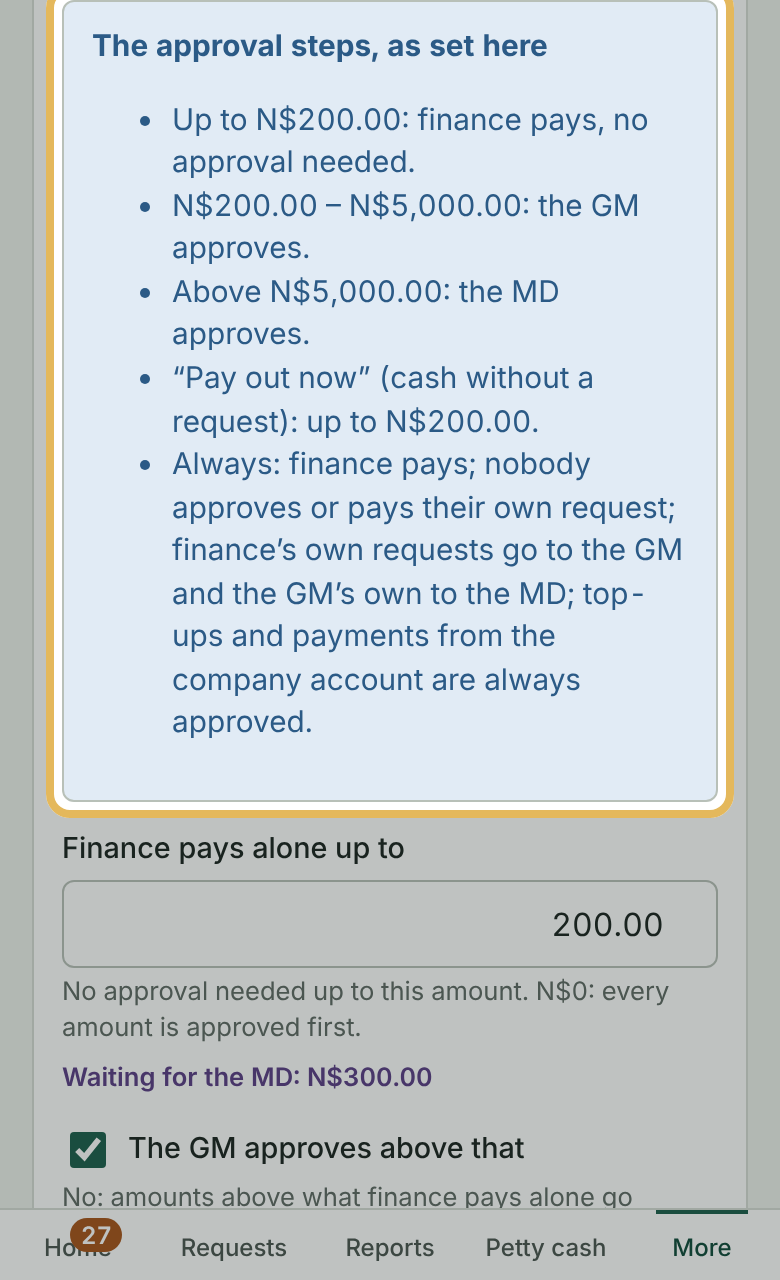
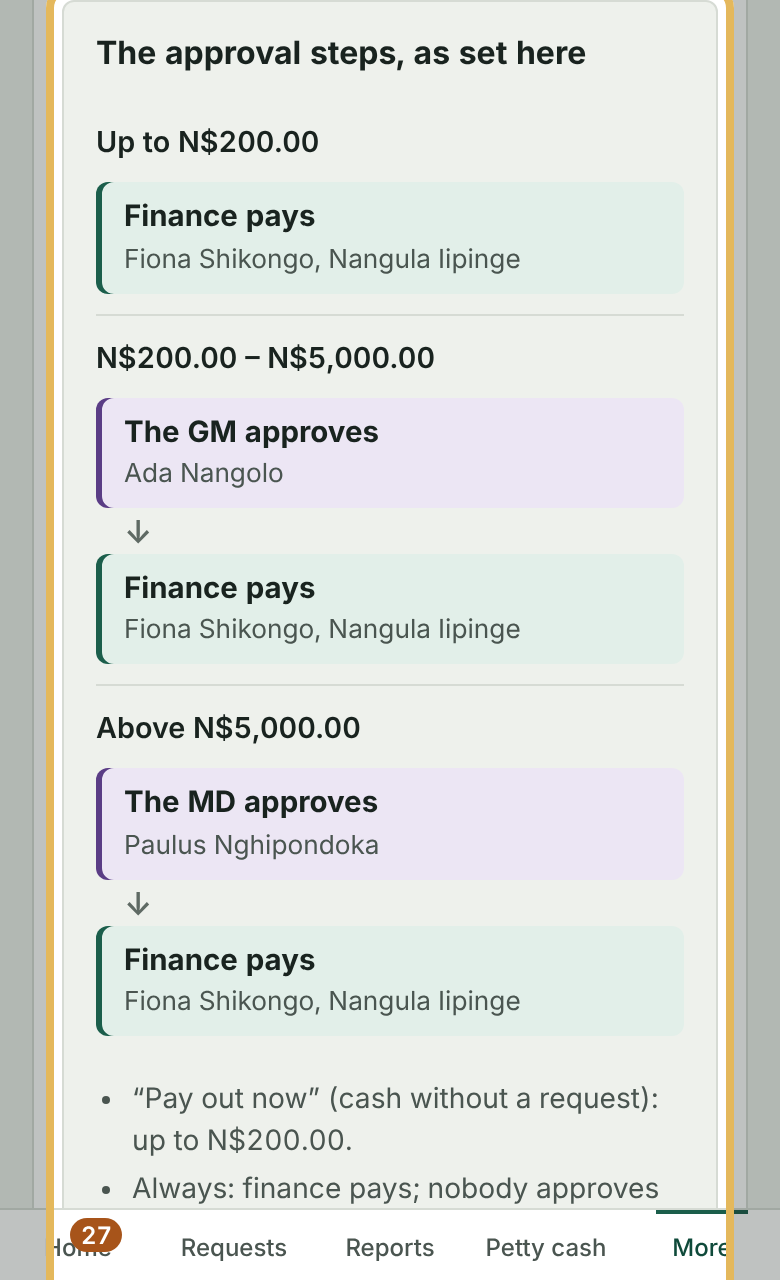
Who approves what: the steps as a picture with names, and three ready-made setups
The Schedule box shows each amount band, who approves it (with the people in that position) and that finance pays;
it redraws while the GM edits, and screen readers get the same steps in words. Ready-made setups switch the GM and
MD steps without touching the amounts. A new client's starting steps can be set in its client file (approval).
The 6 Nov walk-throughs and picture follow the new box.

Claude-Session: https://claude.ai/code/session_01BgGMqKDX18XZjXLSkFpQPp

diff --git a/js/pages/schedule.js b/js/pages/schedule.js
@@ -1,8 +1,8 @@
 // The authority schedule : limits, the float, reminder periods, budgets and who holds each position,
 // in one versioned place. The administrator changes it; the Managing Director approves what needs approving.
 import { sb, state, unwrap, rpc, role, has, personName, ROLE_LABEL, mdInPlace, multiBranch, branchName } from '../api.js';
-import { h, mount, money, num, fmtDate, toast, busy, field, select, modal, refresh, confirmDialog, emptyState, today, showIf } from '../ui.js';
-import { ITEMS, SECTIONS, WEEKDAYS, EVERY, BUDGET_MODES, AREA_LABEL, POSITIONS, fmtValue, versionStatus, changeText, approvalSteps } from '../schedule-meta.js';
+import { h, mount, money, num, fmtDate, toast, busy, field, select, modal, refresh, confirmDialog, emptyState, today, showIf, titled } from '../ui.js';
+import { ITEMS, SECTIONS, WEEKDAYS, EVERY, BUDGET_MODES, AREA_LABEL, POSITIONS, fmtValue, versionStatus, changeText, approvalSteps, approvalFlow, SETUPS, setupOf } from '../schedule-meta.js';
 import { downloadSchedulePdf } from '../schedule-pdf.js';
 
 async function load() {
@@ -173,15 +173,30 @@ function valuesBlock(d, admin) {
   const waiting = (k) => (k in pend && !same(k, pend[k], s[k]) ? h('span', { class: 'pending-val' }, `Waiting for the MD: ${fmtValue(k, pend[k])}`) : null);
   // the approval steps in plain words, at the top of "Who approves what"; while editing they follow the inputs (047)
   const STEP_KEYS = ['approval_threshold', 'gm_step', 'gm_limit', 'md_step', 'quick_payout_limit'];
-  const stepsBox = h('div', { class: 'banner banner-blue', id: 'approval-steps', style: { marginBottom: '14px' } });
+  const stepsBox = h('div', { class: 'flow-box', id: 'approval-steps' });
+  // ready-made setups (the GM, while editing): they switch the two steps; the amounts stay as they are
+  const setupBtns = SETUPS.map((x) => h('button', { type: 'button', class: 'btn btn-sm setup-btn', 'data-setup': x.id, title: titled(x.hint), onclick: () => {
+    inputs.gm_step.checked = x.gm_step; inputs.md_step.checked = x.md_step; drawSteps();
+  } }, x.label));
+  const setups = admin ? h('div', { class: 'flow-setups', id: 'approval-setups' }, h('span', { class: 'flow-setups-label' }, 'Ready-made setups'),
+    h('div', { class: 'flow-setups-row', role: 'group', 'aria-label': 'Ready-made setups' }, setupBtns),
+    h('span', { class: 'hint' }, 'They switch the approval steps below. The amounts stay as they are.')) : null;
   const drawSteps = () => {
     const v = admin ? { ...s, ...Object.fromEntries(STEP_KEYS.filter((k) => inputs[k]).map((k) => [k, readInput(k, inputs[k])])) } : s;
-    mount(stepsBox, h('strong', {}, admin ? 'The approval steps, as set here' : 'The approval steps'), h('ul', {}, approvalSteps(v).map((l) => h('li', {}, l))));
+    const lines = approvalSteps(v); const always = lines.pop(); const quick = lines.pop();
+    mount(stepsBox, h('strong', { class: 'flow-title' }, admin ? 'The approval steps, as set here' : 'The approval steps'),
+      // the picture is for the eye; the same steps in words are read out to screen readers
+      h('ol', { class: 'flow', 'aria-hidden': 'true' }, approvalFlow(v).map((r) => h('li', { class: 'flow-row' },
+        h('span', { class: 'flow-band' }, r.band),
+        h('span', { class: 'flow-steps' }, r.steps.map((who, i) => [i ? h('span', { class: 'flow-arrow' }, '→') : null, flowStep(who)]))))),
+      h('ul', { class: 'sr-only' }, lines.map((l) => h('li', {}, l))),
+      h('ul', { class: 'flow-notes' }, h('li', {}, quick), h('li', {}, always)));
+    const on = setupOf(v); setupBtns.forEach((b) => { const yes = on && b.dataset.setup === on.id; b.setAttribute('aria-pressed', String(!!yes)); b.classList.toggle('btn-primary', !!yes); });
     if (wraps.gm_limit) wraps.gm_limit.style.display = v.gm_step !== false && v.md_step !== false ? '' : 'none';   // only used when both steps are on
   };
   const sections = SECTIONS.map((sec) => h('div', { class: 'sheet' },
     head(sec.title, sec.md),
-    sec.keys.includes('approval_threshold') ? stepsBox : null,
+    sec.keys.includes('approval_threshold') ? [setups, stepsBox] : null,
     admin
       ? h('div', { class: 'sched-grid' }, sec.keys.map((k) => {
         const it = ITEMS[k]; const el = inputFor(k, s[k]); inputs[k] = el;
@@ -195,6 +210,15 @@ function valuesBlock(d, admin) {
   const b = h('button', { class: 'btn btn-primary', type: 'submit' }, 'Review and save…');
   return h('form', { onsubmit: (e) => { e.preventDefault(); reviewChanges(inputs); } }, sections,
     h('div', { class: 'form-actions sched-save' }, h('span', { class: 'hint' }, 'Nothing changes until you review and give a reason.'), b));
+}
+
+/** One step of the picture: what happens and who does it today (the people holding that position). */
+function flowStep(who) {
+  const holders = state.people.filter((p) => p.active && p.role === who).map((p) => personName(p.id));
+  const what = { finance: 'Finance pays', approver: 'The GM approves', managing_director: 'The MD approves' }[who];
+  let names = holders.length > 2 ? `${holders.slice(0, 2).join(', ')} +${holders.length - 2}` : holders.join(', ');
+  if (!holders.length) names = who === 'managing_director' ? 'Nobody yet: the GM approves meanwhile' : 'Nobody yet';
+  return h('span', { class: `flow-step ${who === 'finance' ? 'is-pay' : 'is-approve'}${holders.length ? '' : ' is-empty'}` }, h('b', {}, what), h('small', {}, names));
 }
 
 function reviewChanges(inputs) {

diff --git a/styles.css b/styles.css
@@ -593,6 +593,32 @@ tr.inactive td, tr.inactive td strong { color: var(--ink-3); }
 .head-title { display: flex; align-items: center; gap: 6px 10px; flex-wrap: wrap; }
 .sched-grid { display: grid; gap: 4px 20px; grid-template-columns: repeat(auto-fit, minmax(240px, 1fr)); }
 .sched-grid .field { margin-bottom: 10px; }
+/* the approval steps as a picture (Schedule → Who approves what): one row per amount band, who acts in order */
+.flow-box { border: 1px solid var(--rule); border-radius: var(--radius); background: var(--paper); padding: 14px 16px; margin-bottom: 14px; display: grid; gap: 12px; }
+.flow { list-style: none; margin: 0; padding: 0; display: grid; gap: 8px; }
+.flow-row { display: grid; grid-template-columns: minmax(150px, 200px) 1fr; gap: 6px 14px; align-items: center; }
+.flow-band { font-variant-numeric: tabular-nums; font-weight: 600; font-size: .9rem; border-left: 3px solid var(--rule-strong); padding: 2px 0 2px 10px; }
+.flow-steps { display: flex; flex-wrap: wrap; align-items: center; gap: 6px 8px; min-width: 0; }
+.flow-step { display: grid; gap: 1px; padding: 7px 12px 7px 14px; border-radius: var(--radius); min-width: 0; }
+.flow-step b { font-size: .92rem; }
+.flow-step small { font-size: .82rem; color: var(--ink-2); overflow-wrap: anywhere; }
+.flow-step.is-approve { background: var(--purple-tint); box-shadow: inset 3px 0 0 var(--purple); }
+.flow-step.is-pay { background: var(--green-tint); box-shadow: inset 3px 0 0 var(--green); }
+.flow-step.is-empty small { color: var(--amber); font-weight: 600; }
+.flow-arrow { color: var(--ink-3); font-weight: 600; }
+.flow-notes { margin: 0; padding-left: 18px; font-size: .88rem; color: var(--ink-2); display: grid; gap: 4px; }
+.flow-setups { display: grid; gap: 6px; margin-bottom: 12px; }
+.flow-setups-label { font-weight: 600; font-size: .9rem; }
+.flow-setups-row { display: flex; flex-wrap: wrap; gap: 8px; }
+.flow-setups .hint { color: var(--ink-3); font-size: .8rem; }
+@media (max-width: 560px) {
+  .flow { gap: 0; }
+  .flow-row { grid-template-columns: 1fr; padding: 10px 0; }
+  .flow-row + .flow-row { border-top: 1px solid var(--rule); }
+  .flow-band { border-left: 0; padding-left: 0; }
+  .flow-steps { flex-direction: column; align-items: stretch; gap: 2px; }
+  .flow-arrow { transform: rotate(90deg); align-self: flex-start; margin-left: 14px; line-height: 1.2; }
+}
 .sched-kv { grid-template-columns: minmax(0, max-content) minmax(0, 1fr); }
 .sched-kv dd { font-weight: 500; overflow-wrap: anywhere; }
 .pending-val { display: inline-block; margin-top: 2px; font-size: .8rem; font-weight: 600; color: var(--purple); }

diff --git a/js/schedule-meta.js b/js/schedule-meta.js
@@ -74,6 +74,22 @@ export function approvalSteps(s) {
   return lines;
 }
 
+/** The approval steps as a picture: one row per amount band, with who acts in order (the roles), as approvalSteps. */
+export function approvalFlow(s) {
+  const thr = Number(s.approval_threshold); const gm = s.gm_step !== false; const md = s.md_step !== false;
+  const rows = thr > 0 ? [{ band: `Up to ${money(thr)}`, steps: ['finance'] }] : [];
+  if (gm && md) rows.push({ band: thr > 0 ? `${money(thr)} – ${money(s.gm_limit)}` : `Up to ${money(s.gm_limit)}`, steps: ['approver', 'finance'] }, { band: `Above ${money(s.gm_limit)}`, steps: ['managing_director', 'finance'] });
+  else rows.push({ band: thr > 0 ? `Above ${money(thr)}` : 'Every amount', steps: [gm ? 'approver' : 'managing_director', 'finance'] });
+  return rows;
+}
+/** Ready-made approval setups: which steps are on. The amounts stay as they are. */
+export const SETUPS = [
+  { id: 'gm', label: 'The GM approves', hint: 'One approver for everything above what finance pays alone.', gm_step: true, md_step: false },
+  { id: 'gm_md', label: 'The GM, then the MD', hint: 'The GM approves up to the GM limit, the MD above it.', gm_step: true, md_step: true },
+  { id: 'md', label: 'The MD approves', hint: 'The MD approves everything above what finance pays alone.', gm_step: false, md_step: true },
+];
+export const setupOf = (s) => SETUPS.find((x) => x.gm_step === (s.gm_step !== false) && x.md_step === (s.md_step !== false)) || null;
+
 /** A schedule value in words, the same way the database writes it in the history. */
 export function fmtValue(key, v) {
   const it = ITEMS[key];

diff --git a/CLAUDE.md b/CLAUDE.md
@@ -79,7 +79,7 @@ Only finance (or finance's stand-in) pays out: cash, claims, "Pay out now" and t
 
 ## Approval steps (db/047)
 
-Who approves what by amount is set by the GM under Schedule → "Who approves what" (the MD approves each change; the box "The approval steps" shows them in plain words): finance pays alone up to `approval_threshold`; above it the GM up to `gm_limit` and the MD above, or the GM step (`gm_step`) or the MD step (`md_step`) switched off (never both). `approval_level_for(amount)` gives the approver (null / gm / md) and is used by routing, top-ups (always at least the GM) and paying more than approved; the screens use `approvalLevelFor` in `schedule-meta.js`. "Pay out now" has its own limit (`quick_payout_limit`, never above what finance pays alone; 0 switches it off). A payment from the company account always needs approval first ("Send for approval"). Stand-ins never let one person approve and pay (`delegations_conflict_guard`). Fixed whatever the steps: nobody approves or pays their own; finance's own requests go to the GM, the GM's own to the MD; only finance pays.
+Who approves what by amount is set by the GM under Schedule → "Who approves what" (the MD approves each change; the box "The approval steps" shows them in plain words): finance pays alone up to `approval_threshold`; above it the GM up to `gm_limit` and the MD above, or the GM step (`gm_step`) or the MD step (`md_step`) switched off (never both). `approval_level_for(amount)` gives the approver (null / gm / md) and is used by routing, top-ups (always at least the GM) and paying more than approved; the screens use `approvalLevelFor` in `schedule-meta.js`. "Pay out now" has its own limit (`quick_payout_limit`, never above what finance pays alone; 0 switches it off). A payment from the company account always needs approval first ("Send for approval"). Stand-ins never let one person approve and pay (`delegations_conflict_guard`). Fixed whatever the steps: nobody approves or pays their own; finance's own requests go to the GM, the GM's own to the MD; only finance pays. The box is a picture (`approvalFlow`: each amount band, who approves with the names of the people in that position, then finance pays; the same steps in words for screen readers), and three ready-made setups above it ("The GM approves", "The GM, then the MD", "The MD approves") switch the two steps without touching the amounts. A new client's starting steps come from `approval` in its client file (ops/README.md). What a client calls the GM and the MD is set under Admin → Settings → Position titles (db/030) and swapped into every text by `titled()`.
 
 ## Open items (as of 1 Nov 2026)
 

diff --git a/ops/README.md b/ops/README.md
@@ -14,6 +14,7 @@ Copy `clients/example-lobito.json` to `clients/<slug>.json` and fill it in:
 | `currency`, `currency_code` | the symbol on screen (`N$`, `Kz `, `R`) and the ISO code (`NAD`, `AOA`, `ZAR`) |
 | `time_zone`, `number_locale` | e.g. `Africa/Windhoek` + `en-NA`, or `Africa/Luanda` + `pt-AO` |
 | `titles` | what they call the two approvers; leave out for GM / MD |
+| `approval` | the approval steps agreed on the setup call, e.g. `{"steps": "gm_md", "finance_alone": 500, "gm_limit": 5000, "pay_out_now": 200}`. `steps`: `gm` (the GM approves), `gm_md` (the GM, then the MD above `gm_limit`) or `md` (the MD approves). Leave out for Petti's starting values (N$200 / N$5,000, both steps); the GM can change them later under Schedule → Who approves what |
 | `schedule_ref`, `policy_ref` | their document numbers for the authority schedule and policy (optional) |
 | `supabase_url`, `publishable_key` | from the client's new Supabase project (Settings → API) |
 | `app_url` | where the app will live, e.g. `https://app.usepetti.com/oshana/` |
